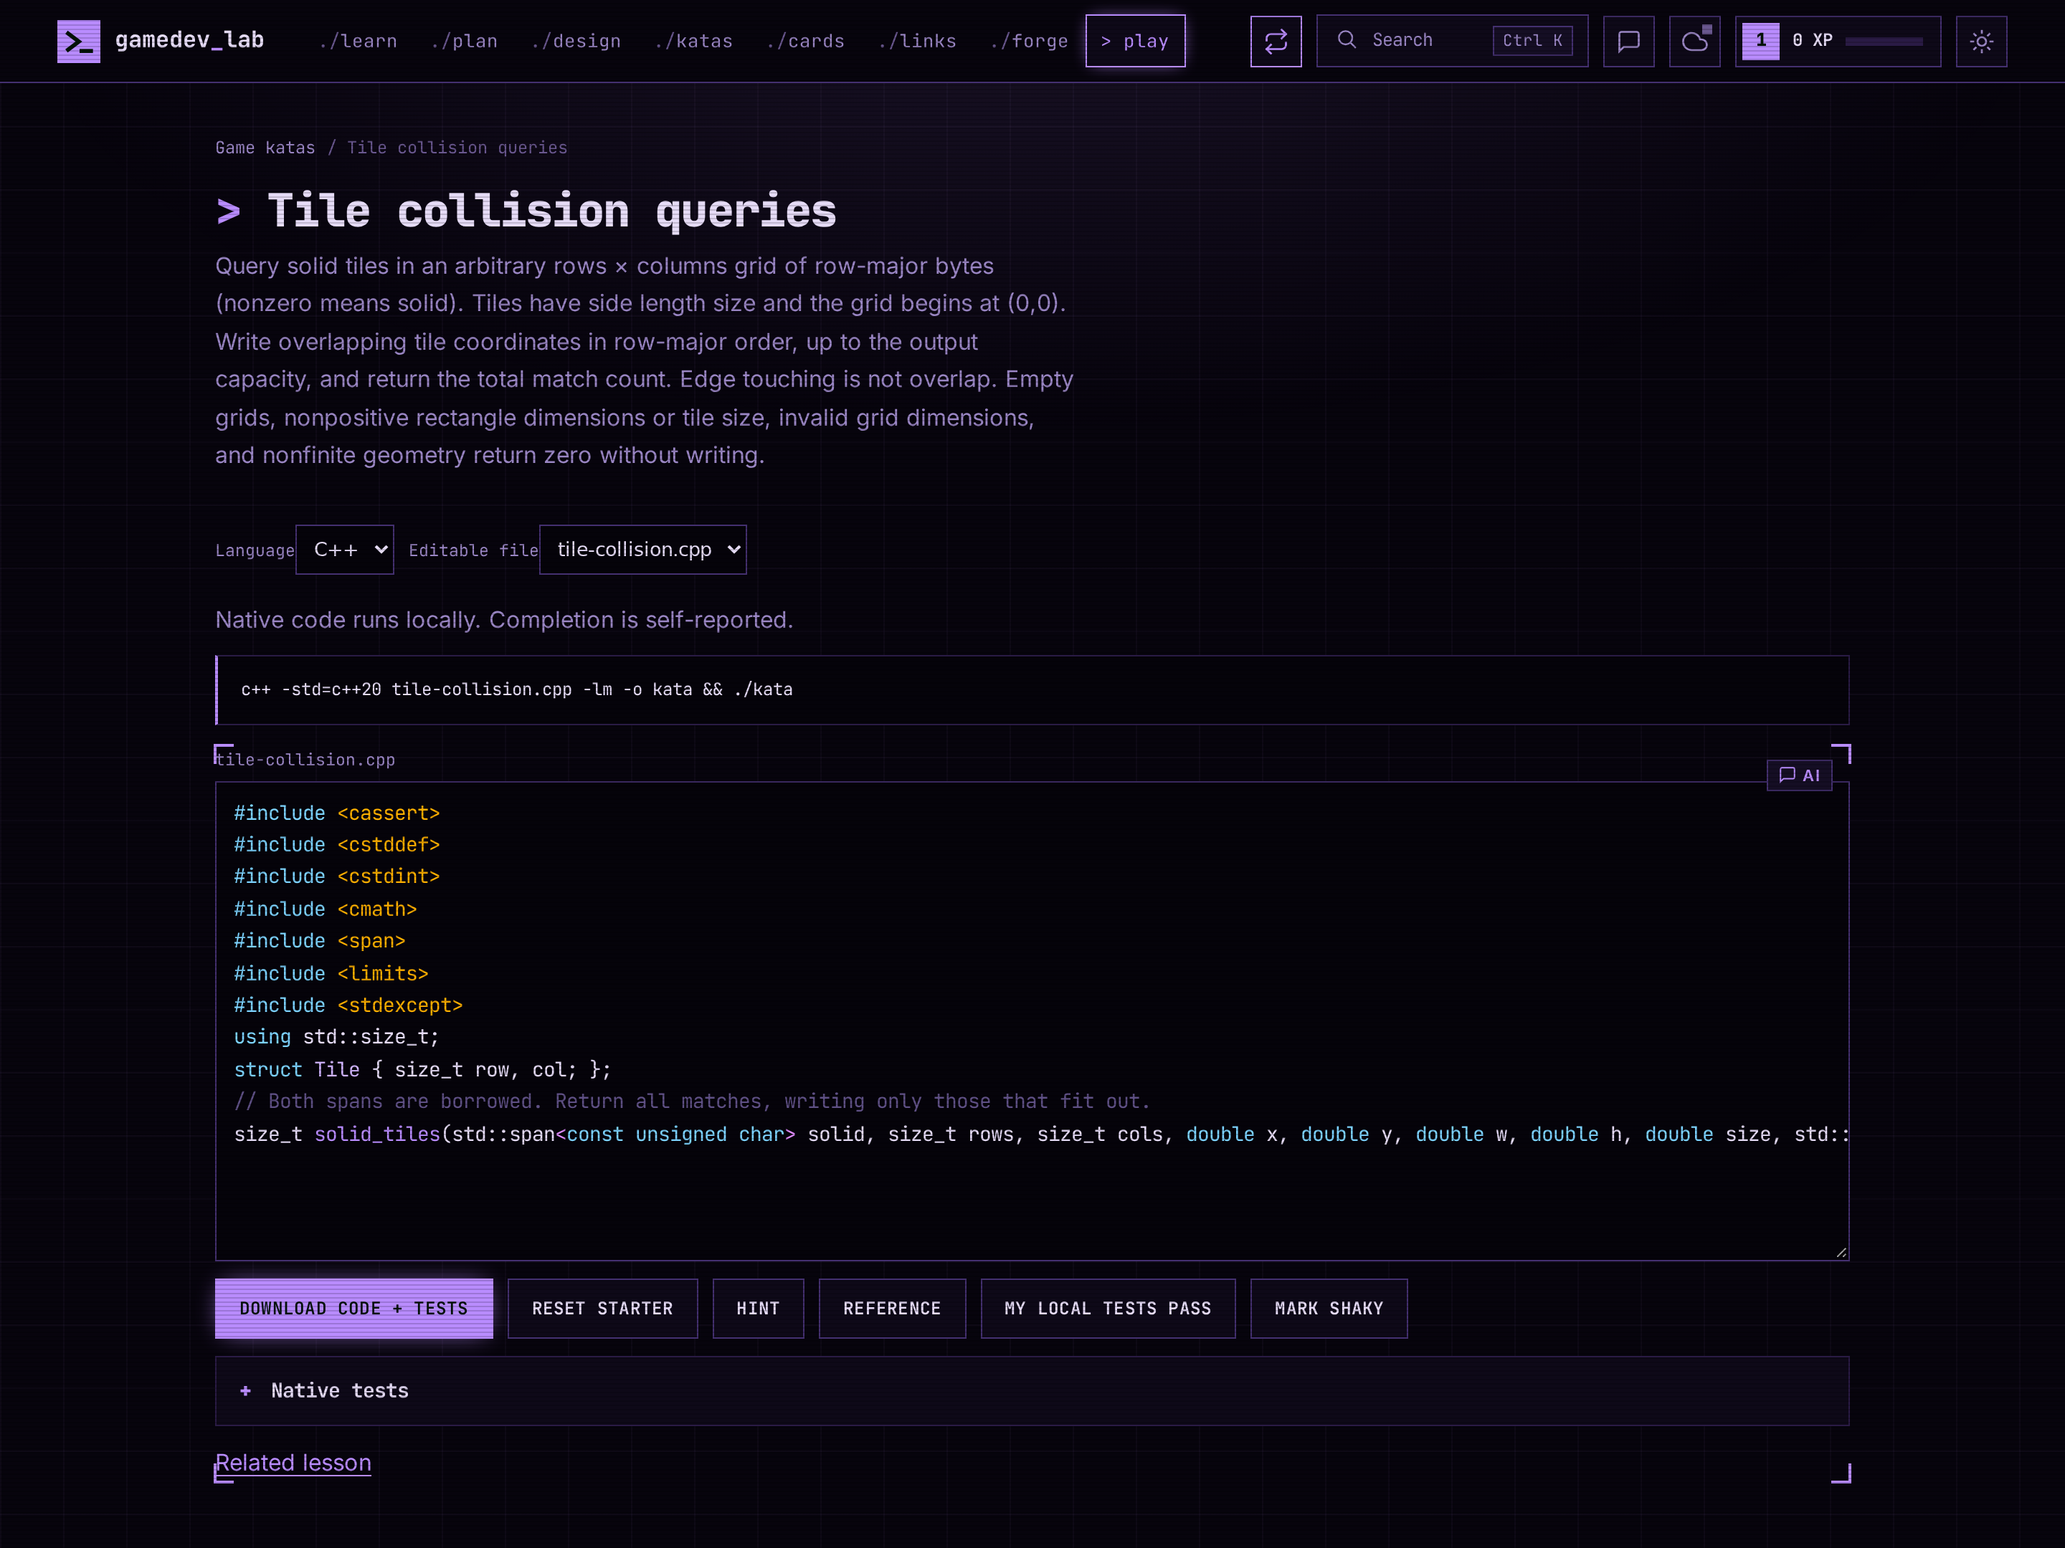
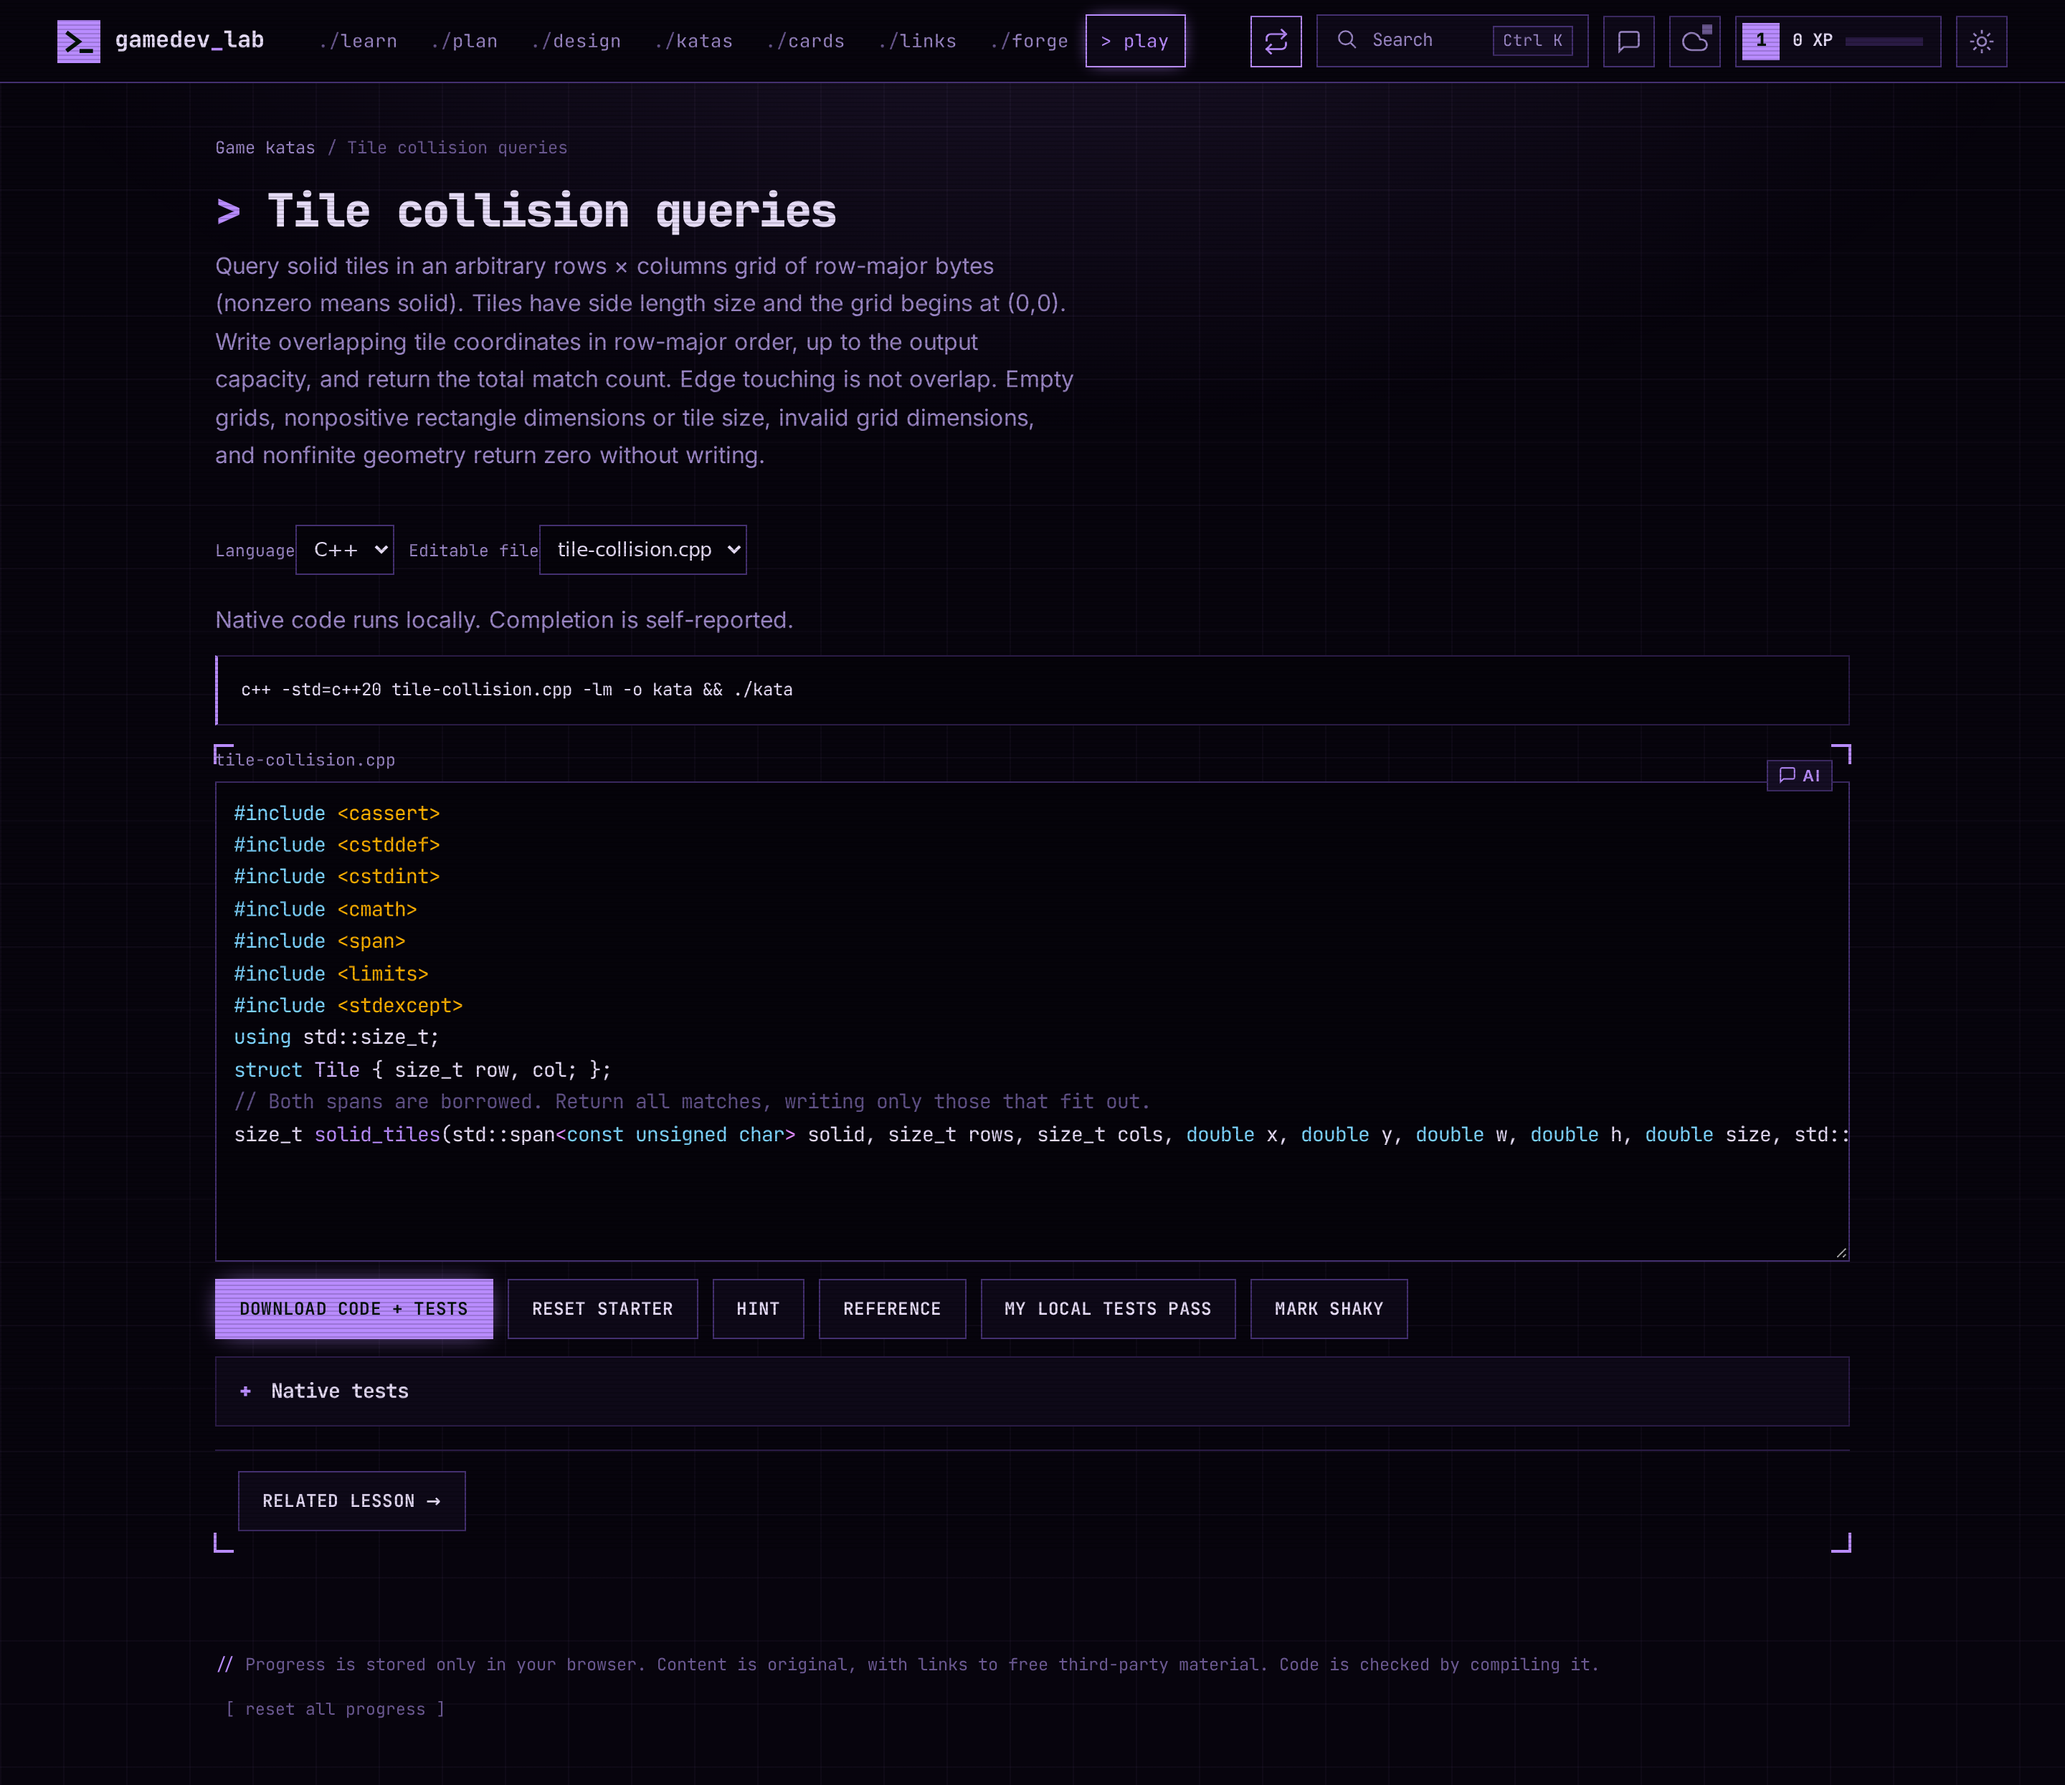
fix: align related lesson navigation in kata footer

diff --git a/assets/game/katas.js b/assets/game/katas.js
@@ -15,7 +15,7 @@
       const names=Object.keys(bundle.starter),draftKey='gd:kataFiles:'+id+':'+lang,draft=store.get(draftKey,{}),code={...bundle.starter,...draft};let filename=names.find(f=>f.endsWith('.'+languages[lang].ext))||names[0];const single=!k.catalog,sourceNames=Object.keys({...bundle.starter,...bundle.tests,...support}).filter(f=>f.endsWith(lang==='cpp'?'.cpp':'.c'));
       const command=single?(lang==='zig'?`zig test ${id}.zig`:`${lang==='c'?'cc -std=c17':'c++ -std=c++20'} ${id}.${languages[lang].ext} -lm -o kata && ./kata`):lang==='zig'?`zig test ${Object.keys(bundle.tests).find(f=>f.endsWith('.zig'))}`:`${lang==='c'?'cc -std=c17':'c++ -std=c++20'} -DEXERCISM_RUN_ALL_TESTS -DUNITY_INCLUDE_DOUBLE -DCATCH_CONFIG_NO_POSIX_SIGNALS ${sourceNames.join(' ')} -lm -o kata && ./kata`;
       document.title=`${k.title} (${languages[lang].label}) · Game katas`;
-      app.innerHTML=`<div class="crumbs"><a href="#/game-katas">Game katas</a> / ${esc(k.title)}</div><div class="page-h"><h1>${esc(k.title)}</h1><p>${esc(k.prompt)}</p></div><div class="dbar"><label class="lbl">Language<select class="inp" id="gklanguage" aria-label="Kata language">${Object.entries(languages).map(([value,l])=>`<option value="${value}" ${lang===value?'selected':''}>${l.label}</option>`).join('')}</select></label><label class="lbl">Editable file<select id="gkfile" aria-label="Source file">${names.map(f=>`<option ${f===filename?'selected':''}>${esc(f)}</option>`).join('')}</select></label></div><p class="muted">${lang==='zig'?'Zig 0.17.0 · ':''}Native code runs locally. Completion is self-reported.</p><pre class="gl-source"><code id="gkcommand">${esc(command)}</code></pre>${instructions?`<details><summary>Full exercise instructions</summary><pre class="gl-instructions">${esc(instructions)}</pre><p>The native API and ownership rules are specified in the source headers and tests below.</p></details>`:''}<section class="tc brk"><label class="lbl" id="gkfilename" for="gkcode">${esc(filename)}</label><textarea class="inp gl-code" id="gkcode" rows="14" spellcheck="false">${esc(code[filename])}</textarea><div class="dbar"><button class="btn primary" id="gkdownload">${single?'Download code + tests':'Download project ZIP'}</button><button class="btn" id="gkreset">Reset starter</button><button class="btn" id="gkhint">Hint</button><button class="btn" id="gksolution">Reference</button><button class="btn" id="gkpass">My local tests pass</button><button class="btn" id="gkshaky">Mark shaky</button>${H.askBtn(`I am learning ${k.title} in ${languages[lang].label}. ${k.prompt} Give me a hint and edge cases, not the solution.`, 'Ask tutor')}</div><p id="gkhintout" hidden>${esc(k.hint||'Read the declared API and native test cases. Start with the simplest case, then handle invalid inputs and ownership.')}</p><div id="gkref" hidden>${Object.entries(bundle.solution).map(([name,text])=>`<h3>${esc(name)}</h3><pre data-native-code><code>${esc(text)}</code></pre>`).join('')}</div><details><summary>Native tests</summary>${Object.entries(bundle.tests).map(([name,text])=>`<h3>${esc(name)}</h3><pre data-native-code><code>${esc(text)}</code></pre>`).join('')}</details><output id="gkresult" role="status"></output>${k.lesson?`<a href="#/lesson/${k.lesson}">Related lesson</a>`:''}${k.catalog?`<p class="muted">${esc(bundle.source)} · ${esc(bundle.authors.join(', '))}${bundle.ref?` · pinned ${esc(bundle.ref.slice(0,12))}`:''}</p>`:''}</section>`;
+      app.innerHTML=`<div class="crumbs"><a href="#/game-katas">Game katas</a> / ${esc(k.title)}</div><div class="page-h"><h1>${esc(k.title)}</h1><p>${esc(k.prompt)}</p></div><div class="dbar"><label class="lbl">Language<select class="inp" id="gklanguage" aria-label="Kata language">${Object.entries(languages).map(([value,l])=>`<option value="${value}" ${lang===value?'selected':''}>${l.label}</option>`).join('')}</select></label><label class="lbl">Editable file<select id="gkfile" aria-label="Source file">${names.map(f=>`<option ${f===filename?'selected':''}>${esc(f)}</option>`).join('')}</select></label></div><p class="muted">${lang==='zig'?'Zig 0.17.0 · ':''}Native code runs locally. Completion is self-reported.</p><pre class="gl-source"><code id="gkcommand">${esc(command)}</code></pre>${instructions?`<details><summary>Full exercise instructions</summary><pre class="gl-instructions">${esc(instructions)}</pre><p>The native API and ownership rules are specified in the source headers and tests below.</p></details>`:''}<section class="tc brk"><label class="lbl" id="gkfilename" for="gkcode">${esc(filename)}</label><textarea class="inp gl-code" id="gkcode" rows="14" spellcheck="false">${esc(code[filename])}</textarea><div class="dbar"><button class="btn primary" id="gkdownload">${single?'Download code + tests':'Download project ZIP'}</button><button class="btn" id="gkreset">Reset starter</button><button class="btn" id="gkhint">Hint</button><button class="btn" id="gksolution">Reference</button><button class="btn" id="gkpass">My local tests pass</button><button class="btn" id="gkshaky">Mark shaky</button>${H.askBtn(`I am learning ${k.title} in ${languages[lang].label}. ${k.prompt} Give me a hint and edge cases, not the solution.`, 'Ask tutor')}</div><p id="gkhintout" hidden>${esc(k.hint||'Read the declared API and native test cases. Start with the simplest case, then handle invalid inputs and ownership.')}</p><div id="gkref" hidden>${Object.entries(bundle.solution).map(([name,text])=>`<h3>${esc(name)}</h3><pre data-native-code><code>${esc(text)}</code></pre>`).join('')}</div><details><summary>Native tests</summary>${Object.entries(bundle.tests).map(([name,text])=>`<h3>${esc(name)}</h3><pre data-native-code><code>${esc(text)}</code></pre>`).join('')}</details><output id="gkresult" class="gk-result" role="status"></output>${k.lesson?`<nav class="gk-related" aria-label="Continue learning"><a class="btn" href="#/lesson/${k.lesson}">Related lesson →</a></nav>`:''}${k.catalog?`<p class="muted">${esc(bundle.source)} · ${esc(bundle.authors.join(', '))}${bundle.ref?` · pinned ${esc(bundle.ref.slice(0,12))}`:''}</p>`:''}</section>`;
       editor=NativeCode.editor($('#gkcode'),lang);NativeCode.highlight(app,lang);
       const save=()=>{code[filename]=$('#gkcode').value;store.set(draftKey,code);};$('#gkcode').oninput=save;
       $('#gkfile').onchange=()=>{save();filename=$('#gkfile').value;$('#gkfilename').textContent=filename;editor.setValue(code[filename]);};

diff --git a/assets/style.css b/assets/style.css
@@ -891,3 +891,8 @@ pre[data-native-code] .token.macro,pre[data-native-code] .token.directive,.nativ
 .native-editor textarea{position:relative;display:block;box-sizing:border-box;margin:0;background:transparent;color:transparent;caret-color:var(--ink);white-space:pre;font-variant-ligatures:none;font-feature-settings:'liga' 0,'calt' 0;line-height:1.6}
 .native-editor textarea::selection{background:color-mix(in srgb,var(--accent) 28%,transparent);color:transparent}
 @media (forced-colors:active){.native-editor .native-code-render{display:none}.native-editor textarea{color:CanvasText;caret-color:CanvasText}.native-editor textarea::selection{color:HighlightText;background:Highlight}}
+
+.gk-related{display:flex;align-items:center;gap:12px;margin-top:16px;padding:14px 16px;border-top:1px solid var(--line)}
+.gk-related .btn{max-width:100%;white-space:normal}
+.gk-result{display:block;margin:12px 16px;overflow-wrap:anywhere}
+.gk-result:empty{display:none}
